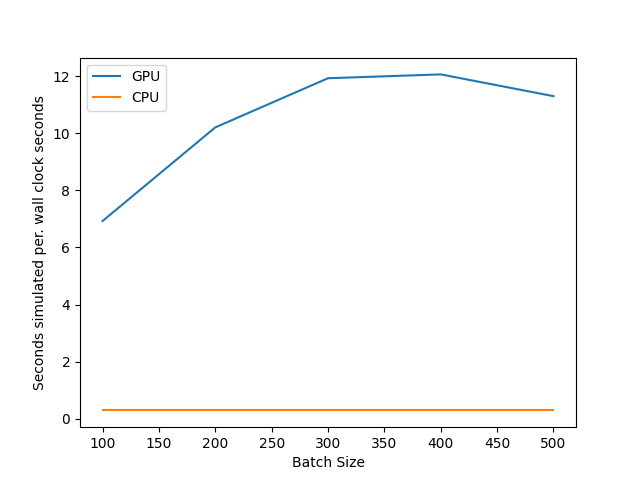
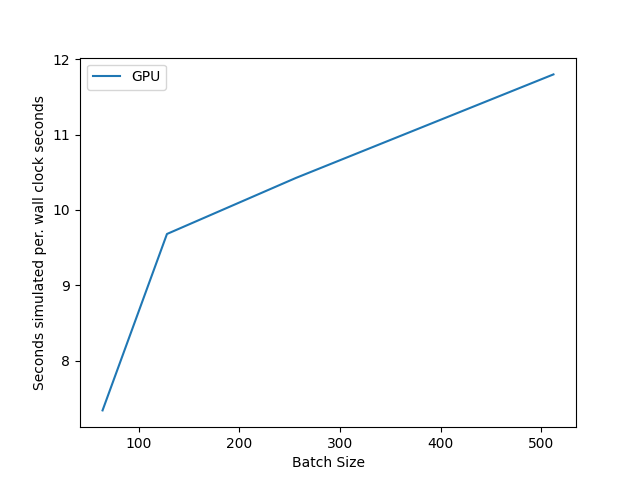
GPU batch sim is good to go!

diff --git a/gpu_benchmark.py b/gpu_benchmark.py
@@ -8,7 +8,7 @@ timestep = 0.005
 simulation_time = 100 #seconds
 upper_bound_training_time = 50112000
 physics_steps_per_control_step = 5
-sim_batch_sizes = [100, 200, 300, 400, 500]
+sim_batch_sizes = [64, 128, 256, 512]
 # for reference, DeepMind's longest training took approximately 50,112,000 Seconds (580 days) simulation time
 
 gpu_plot_y = []
@@ -47,10 +47,10 @@ for sim_batch_size in sim_batch_sizes:
 
     print("Would take (upper bound) {} seconds ({} days) to finish training RL agent. (not including policy updates)".format(upper_bound_training_time / sim_per_wall_clock, (upper_bound_training_time / sim_per_wall_clock) / 86400))
 
-cpu_plot_y = [estimateCPUSimSpeed()] * len(gpu_plot_y)
+# cpu_plot_y = [estimateCPUSimSpeed()] * len(gpu_plot_y)
+# plt.plot(sim_batch_sizes, cpu_plot_y, label='CPU')
 
 plt.plot(sim_batch_sizes, gpu_plot_y, label='GPU')
-# plt.plot(sim_batch_sizes, cpu_plot_y, label='CPU')
 plt.xlabel('Batch Size')
 plt.ylabel('Seconds simulated per. wall clock seconds')
 plt.legend()

diff --git a/gpu_batch_simulation.py b/gpu_batch_simulation.py
@@ -182,7 +182,7 @@ class GPUBatchSimulation:
     return delayed_observations
   
   def step(self, action=None): # TODO -> slow
-    # if self.verbose: print("Stepping simulations...")
+    if self.verbose: print("Stepping simulations...")
     
     # cycle action through action buffer
     self.action_buffer.append(action)
@@ -197,7 +197,7 @@ class GPUBatchSimulation:
     # step sims, update data batch
     self.data_batch = self.jax_step(self.model, self.data_batch)
     
-    # if self.verbose: print("Simulations stepped.")
+    if self.verbose: print("Simulations stepped.")
   
 if __name__ == "__main__":
     sim_batch = GPUBatchSimulation(count=512,

diff --git a/reward_functions.py b/reward_functions.py
@@ -9,7 +9,7 @@ def standingRewardFn(velocity, z_pos, quat, joint_torques):
     VERTICAL_VELOCITY_REWARD_WEIGHT = -0.05
     # Termination A penalty, equal to −1 if the player is on the ground - 0.5
     GROUNDED_PENALTY_WEIGHT = -0.5
-    MIN_Z_BEFORE_GROUNDED = -0.4
+    MIN_Z_BEFORE_GROUNDED = -0.35
     # Upright 0 if the robot is upside down or if the tilt angle is greater
         # than 0.4 radians. Increases linearly, and is equal to +1 if the
         # tilt angle is less than 0.2 radians. - 0.02
